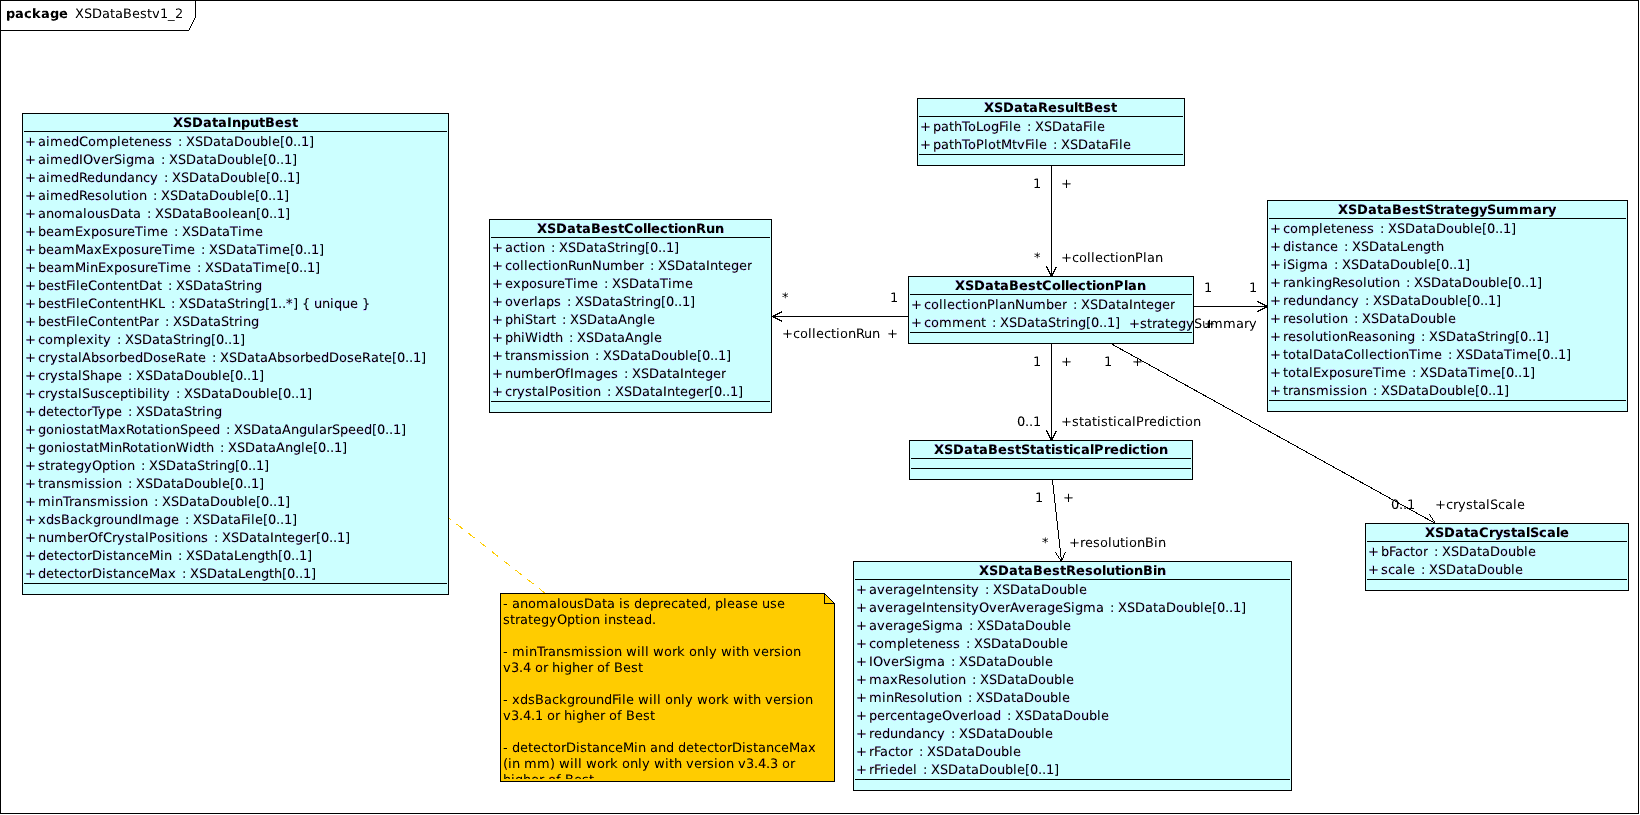
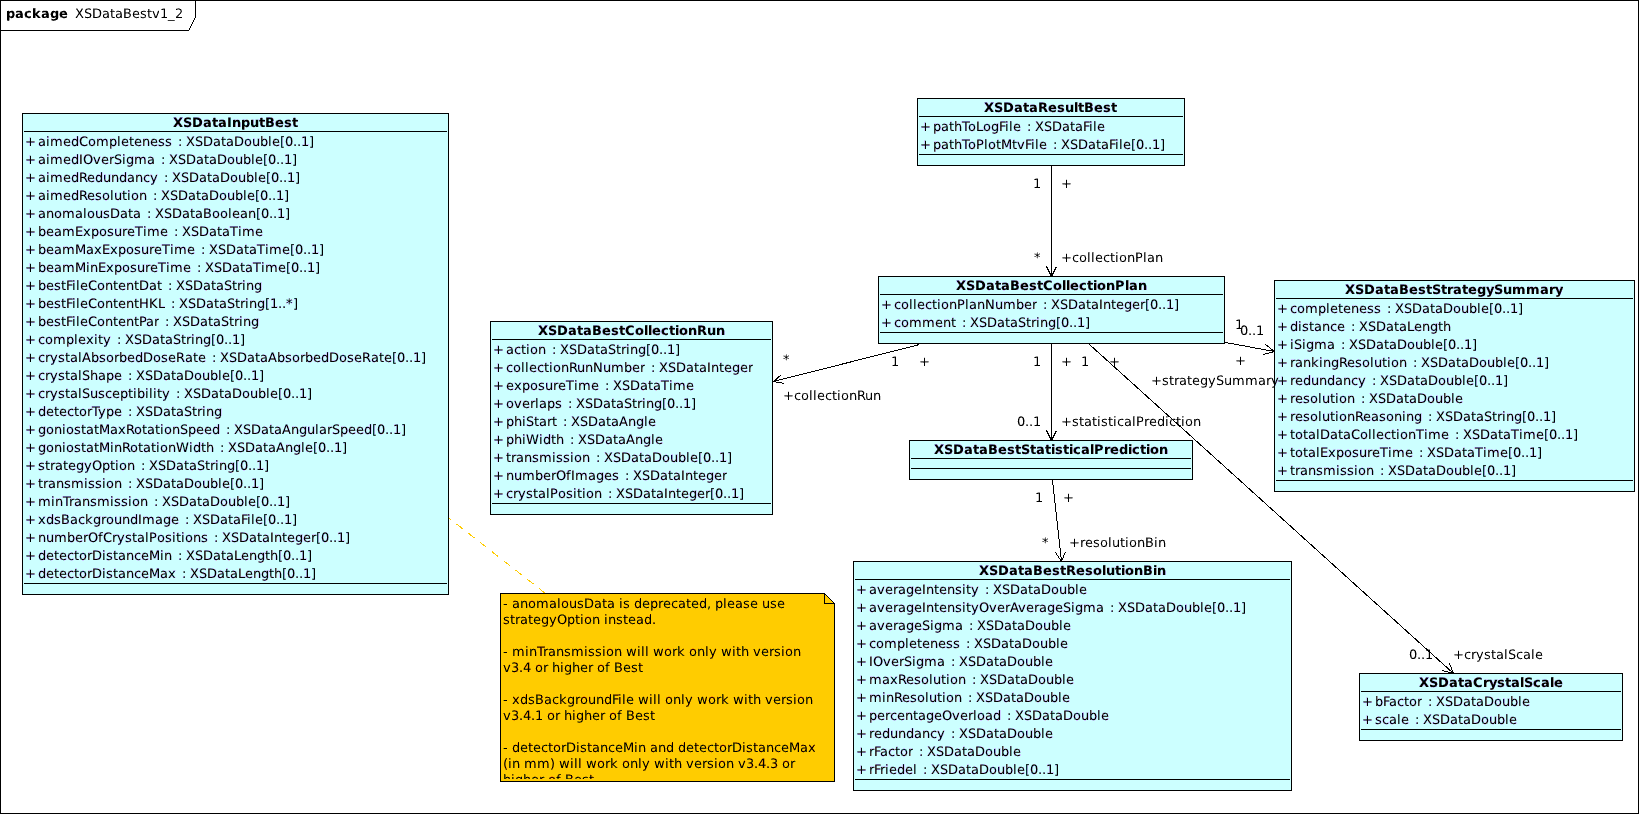
Replaced EDUtilsPath.mergePath with os.path.join, fixed issues with datamodel minOccurs for best v1.2

diff --git a/mxPluginExec/plugins/EDPluginBest-v1.2/tests/testsuite/EDTestCasePluginUnitBestv1_2.py b/mxPluginExec/plugins/EDPluginBest-v1.2/tests/testsuite/EDTestCasePluginUnitBestv1_2.py
@@ -31,6 +31,7 @@ __contact__ = "svensson@esrf.fr"
 __license__ = "LGPLv3+"
 __copyright__ = "European Synchrotron Radiation Facility, Grenoble, France"
 
+import os
 
 from EDVerbose                           import EDVerbose
 from EDUtilsPath                         import EDUtilsPath
@@ -48,15 +49,15 @@ class EDTestCasePluginUnitBestv1_2(EDTestCasePluginUnit):
         self.m_pyStrDataPath = self.getPluginTestsDataHome()
 
         self.m_edObtainedInputFile = "XSDataInputBest_test.xml"
-        self.m_edReferenceInputFile = EDUtilsPath.mergePath(self.m_pyStrDataPath, "XSDataInputBest_reference.xml")
-        self.m_edReferenceResultFile = EDUtilsPath.mergePath(self.m_pyStrDataPath, "XSDataResultBest_reference.xml")
+        self.m_edReferenceInputFile = os.path.join(self.m_pyStrDataPath, "XSDataInputBest_reference.xml")
+        self.m_edReferenceResultFile = os.path.join(self.m_pyStrDataPath, "XSDataResultBest_reference.xml")
 
-        self.m_edReferenceScriptLogFileName = EDUtilsPath.mergePath(self.m_pyStrDataPath, "EDPluginBestv1_2.log")
+        self.m_edReferenceScriptLogFileName = os.path.join(self.m_pyStrDataPath, "EDPluginBestv1_2.log")
 
 
     def testConfigureOK(self):
         edPluginBest = self.createPlugin()
-        pyStrConfigPath = EDUtilsPath.mergePath(self.m_pyStrDataPath, "XSConfiguration.xml")
+        pyStrConfigPath = os.path.join(self.m_pyStrDataPath, "XSConfiguration.xml")
         xsPluginItemGood01 = self.getPluginConfiguration(pyStrConfigPath)
         edPluginBest.setConfiguration(xsPluginItemGood01)
         edPluginBest.setScriptExecutable("cat")
@@ -73,7 +74,7 @@ class EDTestCasePluginUnitBestv1_2(EDTestCasePluginUnit):
 
     def testSetDataModelInput(self):
         edPluginBest = self.createPlugin()
-        xsPluginItemGood01 = self.getPluginConfiguration(EDUtilsPath.mergePath(self.m_pyStrDataPath, "XSConfiguration.xml"))
+        xsPluginItemGood01 = self.getPluginConfiguration(os.path.join(self.m_pyStrDataPath, "XSConfiguration.xml"))
         edPluginBest.setConfiguration(xsPluginItemGood01)
         edPluginBest.setScriptExecutable("cat")
         edPluginBest.configure()
@@ -108,13 +109,13 @@ class EDTestCasePluginUnitBestv1_2(EDTestCasePluginUnit):
         xsDataInputBest.setAnomalousData(XSDataBoolean(False))
         fileDirectory = edPluginBest.getWorkingDirectory()
 
-        bestFileContentDat = EDUtilsFile.readFile(EDUtilsPath.mergePath(self.m_pyStrDataPath, "bestfile.dat"))
+        bestFileContentDat = EDUtilsFile.readFile(os.path.join(self.m_pyStrDataPath, "bestfile.dat"))
         xsDataInputBest.setBestFileContentDat(XSDataString(bestFileContentDat))
 
-        bestFileContentPar = EDUtilsFile.readFile(EDUtilsPath.mergePath(self.m_pyStrDataPath, "bestfile.par"))
+        bestFileContentPar = EDUtilsFile.readFile(os.path.join(self.m_pyStrDataPath, "bestfile.par"))
         xsDataInputBest.setBestFileContentPar(XSDataString(bestFileContentPar))
 
-        bestFileContentHKL = EDUtilsFile.readFile(EDUtilsPath.mergePath(self.m_pyStrDataPath, "bestfile1.hkl"))
+        bestFileContentHKL = EDUtilsFile.readFile(os.path.join(self.m_pyStrDataPath, "bestfile1.hkl"))
         xsDataInputBest.addBestFileContentHKL(XSDataString(bestFileContentHKL))
 
         xsDataInputBest.exportToFile(self.m_edObtainedInputFile)

diff --git a/mxPluginExec/plugins/EDPluginBest-v1.2/plugins/EDPluginBestv1_2.py b/mxPluginExec/plugins/EDPluginBest-v1.2/plugins/EDPluginBestv1_2.py
@@ -194,8 +194,8 @@ class EDPluginBestv1_2(EDPluginExecProcessScript):
 
         self.setScriptLogFileName("best.log")
 
-        self.setFileBestDat(EDUtilsPath.mergePath(self.getWorkingDirectory(), "bestfile.dat"))
-        self.setFileBestPar(EDUtilsPath.mergePath(self.getWorkingDirectory(), "bestfile.par"))
+        self.setFileBestDat(os.path.join(self.getWorkingDirectory(), "bestfile.dat"))
+        self.setFileBestPar(os.path.join(self.getWorkingDirectory(), "bestfile.par"))
 
         EDUtilsFile.writeFile(self.getFileBestDat(), self.getDataInput().getBestFileContentDat().getValue())
         EDUtilsFile.writeFile(self.getFileBestPar(), self.getDataInput().getBestFileContentPar().getValue())
@@ -205,7 +205,7 @@ class EDPluginBestv1_2(EDPluginExecProcessScript):
         iterator = 0
         for bestFileContentHKL in listBestFileContentHKL:
             iterator = iterator + 1
-            bestFileHKL = EDUtilsPath.mergePath(self.getWorkingDirectory(), "bestfile" + str(iterator) + ".hkl")
+            bestFileHKL = os.path.join(self.getWorkingDirectory(), "bestfile" + str(iterator) + ".hkl")
             self.__listFileBestHKL.append(bestFileHKL)
             EDUtilsFile.writeFile(bestFileHKL, bestFileContentHKL.getValue())
 
@@ -308,7 +308,7 @@ class EDPluginBestv1_2(EDPluginExecProcessScript):
 
         self.__strCommandBest = self.__strCommandBest + "-T " + str(fMaxExposureTime) + " " + \
                                      "-dna " + self.getScriptBaseName() + "_dnaTables.xml" + " " + \
-                                     "-o " + EDUtilsPath.mergePath(self.getWorkingDirectory(), self.getScriptBaseName() + "_plots.mtv ") + \
+                                     "-o " + os.path.join(self.getWorkingDirectory(), self.getScriptBaseName() + "_plots.mtv ") + \
                                      "-e " + self.getComplexity() + " "
                                      
         if self.getDataInput().getXdsBackgroundImage():
@@ -331,7 +331,7 @@ class EDPluginBestv1_2(EDPluginExecProcessScript):
             self.setDataOutput(XSDataResultBest())
             self.setFailure()
         else:
-            xsDataResultBest = self.getOutputDataFromDNATableFile(EDUtilsPath.mergePath(self.getWorkingDirectory(), self.getScriptBaseName() + "_dnaTables.xml"))
+            xsDataResultBest = self.getOutputDataFromDNATableFile(os.path.join(self.getWorkingDirectory(), self.getScriptBaseName() + "_dnaTables.xml"))
             xsDataFilePathToLog = XSDataFile(XSDataString(os.path.join(self.getWorkingDirectory(), self.getScriptLogFileName())))
             xsDataResultBest.setPathToLogFile(xsDataFilePathToLog)
             xsDataFilePathToPlotMtv = XSDataFile(XSDataString(os.path.join(self.getWorkingDirectory(), self.getScriptBaseName() + "_plots.mtv")))

diff --git a/mxPluginExec/plugins/EDPluginBest-v1.2/tests/testsuite/EDTestCasePluginExecuteBestv1_2_withNumberOfCrystalPositions.py b/mxPluginExec/plugins/EDPluginBest-v1.2/tests/testsuite/EDTestCasePluginExecuteBestv1_2_withNumberOfCrystalPositions.py
@@ -31,6 +31,7 @@ __contact__ = "svensson@esrf.fr"
 __license__ = "LGPLv3+"
 __copyright__ = "European Synchrotron Radiation Facility, Grenoble, France"
 
+import os
 
 from EDVerbose                           import EDVerbose
 from EDAssert                            import EDAssert
@@ -46,11 +47,11 @@ class EDTestCasePluginExecuteBestv1_2_withNumberOfCrystalPositions(EDTestCasePlu
         EDTestCasePluginExecuteBestv1_2.__init__(self, "EDPluginBestv1_2")
 
         self.setConfigurationFile(self.getRefConfigFile())
-        self.setDataInputFile(EDUtilsPath.mergePath(self.getPluginTestsDataHome(), "XSDataInputBest_withNumberOfCrystalPositions.xml"))
+        self.setDataInputFile(os.path.join(self.getPluginTestsDataHome(), "XSDataInputBest_withNumberOfCrystalPositions.xml"))
         if (self.m_bRunOnIntel):
-            self.setReferenceDataOutputFile(EDUtilsPath.mergePath(self.getPluginTestsDataHome(), "XSDataResultBest_withNumberOfCrystalPositionsForIntel.xml"))
+            self.setReferenceDataOutputFile(os.path.join(self.getPluginTestsDataHome(), "XSDataResultBest_withNumberOfCrystalPositionsForIntel.xml"))
         else:
-            self.setReferenceDataOutputFile(EDUtilsPath.mergePath(self.getPluginTestsDataHome(), "XSDataResultBest_withNumberOfCrystalPositions.xml"))
+            self.setReferenceDataOutputFile(os.path.join(self.getPluginTestsDataHome(), "XSDataResultBest_withNumberOfCrystalPositions.xml"))
 
     def process(self):
         self.addTestMethod(self.testExecute)

diff --git a/mxPluginExec/plugins/EDPluginBest-v1.2/tests/testsuite/EDTestCasePluginExecuteBestv1_2_withXdsBackgroundImage.py b/mxPluginExec/plugins/EDPluginBest-v1.2/tests/testsuite/EDTestCasePluginExecuteBestv1_2_withXdsBackgroundImage.py
@@ -31,6 +31,7 @@ __contact__ = "svensson@esrf.fr"
 __license__ = "LGPLv3+"
 __copyright__ = "European Synchrotron Radiation Facility, Grenoble, France"
 
+import os
 
 from EDVerbose                           import EDVerbose
 from EDAssert                            import EDAssert
@@ -46,11 +47,11 @@ class EDTestCasePluginExecuteBestv1_2_withXdsBackgroundImage(EDTestCasePluginExe
         EDTestCasePluginExecuteBestv1_2.__init__(self, "EDPluginBestv1_2")
 
         self.setConfigurationFile(self.getRefConfigFile())
-        self.setDataInputFile(EDUtilsPath.mergePath(self.getPluginTestsDataHome(), "XSDataInputBest_withXdsBackgroundImage.xml"))
+        self.setDataInputFile(os.path.join(self.getPluginTestsDataHome(), "XSDataInputBest_withXdsBackgroundImage.xml"))
         if (self.m_bRunOnIntel):
-            self.setReferenceDataOutputFile(EDUtilsPath.mergePath(self.getPluginTestsDataHome(), "XSDataResultBest_withXdsBackgroundImageForIntel.xml"))
+            self.setReferenceDataOutputFile(os.path.join(self.getPluginTestsDataHome(), "XSDataResultBest_withXdsBackgroundImageForIntel.xml"))
         else:
-            self.setReferenceDataOutputFile(EDUtilsPath.mergePath(self.getPluginTestsDataHome(), "XSDataResultBest_withXdsBackgroundImage.xml"))
+            self.setReferenceDataOutputFile(os.path.join(self.getPluginTestsDataHome(), "XSDataResultBest_withXdsBackgroundImage.xml"))
 
     def preProcess(self):
         EDTestCasePluginExecuteBestv1_2.preProcess(self)

diff --git a/mxPluginExec/plugins/EDPluginBest-v1.2/plugins/XSDataBestv1_2.py b/mxPluginExec/plugins/EDPluginBest-v1.2/plugins/XSDataBestv1_2.py
@@ -1,7 +1,7 @@
 #!/usr/bin/env python
 
 #
-# Generated Wed Apr 25 08:54::27 2012 by EDGenerateDS.
+# Generated Wed Apr 25 10:17::26 2012 by EDGenerateDS.
 #
 
 import os, sys
@@ -1101,8 +1101,6 @@ class XSDataBestCollectionPlan(object):
 		pass
 		if self._collectionPlanNumber is not None:
 			self.collectionPlanNumber.export(outfile, level, name_='collectionPlanNumber')
-		else:
-			warnEmptyAttribute("collectionPlanNumber", "XSDataInteger")
 		for collectionRun_ in self.getCollectionRun():
 			collectionRun_.export(outfile, level, name_='collectionRun')
 		if self._comment is not None:
@@ -1113,8 +1111,6 @@ class XSDataBestCollectionPlan(object):
 			self.statisticalPrediction.export(outfile, level, name_='statisticalPrediction')
 		if self._strategySummary is not None:
 			self.strategySummary.export(outfile, level, name_='strategySummary')
-		else:
-			warnEmptyAttribute("strategySummary", "XSDataBestStrategySummary")
 	def build(self, node_):
 		for child_ in node_.childNodes:
 			nodeName_ = child_.nodeName.split(':')[-1]
@@ -1739,8 +1735,6 @@ class XSDataResultBest(XSDataResult):
 			warnEmptyAttribute("pathToLogFile", "XSDataFile")
 		if self._pathToPlotMtvFile is not None:
 			self.pathToPlotMtvFile.export(outfile, level, name_='pathToPlotMtvFile')
-		else:
-			warnEmptyAttribute("pathToPlotMtvFile", "XSDataFile")
 	def build(self, node_):
 		for child_ in node_.childNodes:
 			nodeName_ = child_.nodeName.split(':')[-1]

diff --git a/mxPluginExec/plugins/EDPluginBest-v1.2/tests/testsuite/EDTestCasePluginExecuteBestv1_2_withDetectorDistanceMax.py b/mxPluginExec/plugins/EDPluginBest-v1.2/tests/testsuite/EDTestCasePluginExecuteBestv1_2_withDetectorDistanceMax.py
@@ -31,6 +31,7 @@ __contact__ = "svensson@esrf.fr"
 __license__ = "LGPLv3+"
 __copyright__ = "European Synchrotron Radiation Facility, Grenoble, France"
 
+import os
 
 from EDVerbose                           import EDVerbose
 from EDAssert                            import EDAssert
@@ -46,11 +47,11 @@ class EDTestCasePluginExecuteBestv1_2_withDetectorDistanceMax(EDTestCasePluginEx
         EDTestCasePluginExecuteBestv1_2.__init__(self, "EDPluginBestv1_2")
 
         self.setConfigurationFile(self.getRefConfigFile())
-        self.setDataInputFile(EDUtilsPath.mergePath(self.getPluginTestsDataHome(), "XSDataInputBest_withDetectorDistanceMax.xml"))
+        self.setDataInputFile(os.path.join(self.getPluginTestsDataHome(), "XSDataInputBest_withDetectorDistanceMax.xml"))
         if (self.m_bRunOnIntel):
-            self.setReferenceDataOutputFile(EDUtilsPath.mergePath(self.getPluginTestsDataHome(), "XSDataResultBest_withDetectorDistanceMaxForIntel.xml"))
+            self.setReferenceDataOutputFile(os.path.join(self.getPluginTestsDataHome(), "XSDataResultBest_withDetectorDistanceMaxForIntel.xml"))
         else:
-            self.setReferenceDataOutputFile(EDUtilsPath.mergePath(self.getPluginTestsDataHome(), "XSDataResultBest_withDetectorDistanceMax.xml"))
+            self.setReferenceDataOutputFile(os.path.join(self.getPluginTestsDataHome(), "XSDataResultBest_withDetectorDistanceMax.xml"))
 
 
     def testExecute(self):

diff --git a/mxPluginExec/plugins/EDPluginBest-v1.2/tests/testsuite/EDTestCasePluginExecuteBestv1_2_withDetectorDistanceMin.py b/mxPluginExec/plugins/EDPluginBest-v1.2/tests/testsuite/EDTestCasePluginExecuteBestv1_2_withDetectorDistanceMin.py
@@ -31,6 +31,7 @@ __contact__ = "svensson@esrf.fr"
 __license__ = "LGPLv3+"
 __copyright__ = "European Synchrotron Radiation Facility, Grenoble, France"
 
+import os
 
 from EDVerbose                           import EDVerbose
 from EDAssert                            import EDAssert
@@ -46,11 +47,11 @@ class EDTestCasePluginExecuteBestv1_2_withDetectorDistanceMin(EDTestCasePluginEx
         EDTestCasePluginExecuteBestv1_2.__init__(self, "EDPluginBestv1_2")
 
         self.setConfigurationFile(self.getRefConfigFile())
-        self.setDataInputFile(EDUtilsPath.mergePath(self.getPluginTestsDataHome(), "XSDataInputBest_withDetectorDistanceMin.xml"))
+        self.setDataInputFile(os.path.join(self.getPluginTestsDataHome(), "XSDataInputBest_withDetectorDistanceMin.xml"))
         if (self.m_bRunOnIntel):
-            self.setReferenceDataOutputFile(EDUtilsPath.mergePath(self.getPluginTestsDataHome(), "XSDataResultBest_withDetectorDistanceMinForIntel.xml"))
+            self.setReferenceDataOutputFile(os.path.join(self.getPluginTestsDataHome(), "XSDataResultBest_withDetectorDistanceMinForIntel.xml"))
         else:
-            self.setReferenceDataOutputFile(EDUtilsPath.mergePath(self.getPluginTestsDataHome(), "XSDataResultBest_withDetectorDistanceMin.xml"))
+            self.setReferenceDataOutputFile(os.path.join(self.getPluginTestsDataHome(), "XSDataResultBest_withDetectorDistanceMin.xml"))
 
 
     def process(self):

diff --git a/mxPluginExec/plugins/EDPluginBest-v1.2/tests/testsuite/EDTestCasePluginExecuteBestv1_2_withMinTransmissionInput.py b/mxPluginExec/plugins/EDPluginBest-v1.2/tests/testsuite/EDTestCasePluginExecuteBestv1_2_withMinTransmissionInput.py
@@ -30,6 +30,7 @@ __contact__ = "svensson@esrf.fr"
 __license__ = "LGPLv3+"
 __copyright__ = "European Synchrotron Radiation Facility, Grenoble, France"
 
+import os
 
 from EDVerbose                           import EDVerbose
 from EDAssert                            import EDAssert
@@ -45,11 +46,11 @@ class EDTestCasePluginExecuteBestv1_2_withMinTransmissionInput(EDTestCasePluginE
         EDTestCasePluginExecuteBestv1_2.__init__(self, "EDPluginBestv1_2")
 
         self.setConfigurationFile(self.getRefConfigFile())
-        self.setDataInputFile(EDUtilsPath.mergePath(self.getPluginTestsDataHome(), "XSDataInputBest_withMinTransmissionInput.xml"))
+        self.setDataInputFile(os.path.join(self.getPluginTestsDataHome(), "XSDataInputBest_withMinTransmissionInput.xml"))
         if (self.m_bRunOnIntel):
-            self.setReferenceDataOutputFile(EDUtilsPath.mergePath(self.getPluginTestsDataHome(), "XSDataResultBest_withTransmissionInputForIntel.xml"))
+            self.setReferenceDataOutputFile(os.path.join(self.getPluginTestsDataHome(), "XSDataResultBest_withTransmissionInputForIntel.xml"))
         else:
-            self.setReferenceDataOutputFile(EDUtilsPath.mergePath(self.getPluginTestsDataHome(), "XSDataResultBest_withTransmissionInput.xml"))
+            self.setReferenceDataOutputFile(os.path.join(self.getPluginTestsDataHome(), "XSDataResultBest_withTransmissionInput.xml"))
 
 
     def process(self):

diff --git a/mxPluginExec/plugins/EDPluginBest-v1.2/tests/testsuite/EDTestCasePluginExecuteBestv1_2_withTransmissionInput.py b/mxPluginExec/plugins/EDPluginBest-v1.2/tests/testsuite/EDTestCasePluginExecuteBestv1_2_withTransmissionInput.py
@@ -31,6 +31,7 @@ __contact__ = "svensson@esrf.fr"
 __license__ = "LGPLv3+"
 __copyright__ = "European Synchrotron Radiation Facility, Grenoble, France"
 
+import os
 
 from EDVerbose                           import EDVerbose
 from EDAssert                            import EDAssert
@@ -46,11 +47,11 @@ class EDTestCasePluginExecuteBestv1_2_withTransmissionInput(EDTestCasePluginExec
         EDTestCasePluginExecuteBestv1_2.__init__(self, "EDPluginBestv1_2")
 
         self.setConfigurationFile(self.getRefConfigFile())
-        self.setDataInputFile(EDUtilsPath.mergePath(self.getPluginTestsDataHome(), "XSDataInputBest_withTransmissionInput.xml"))
+        self.setDataInputFile(os.path.join(self.getPluginTestsDataHome(), "XSDataInputBest_withTransmissionInput.xml"))
         if (self.m_bRunOnIntel):
-            self.setReferenceDataOutputFile(EDUtilsPath.mergePath(self.getPluginTestsDataHome(), "XSDataResultBest_withTransmissionInputForIntel.xml"))
+            self.setReferenceDataOutputFile(os.path.join(self.getPluginTestsDataHome(), "XSDataResultBest_withTransmissionInputForIntel.xml"))
         else:
-            self.setReferenceDataOutputFile(EDUtilsPath.mergePath(self.getPluginTestsDataHome(), "XSDataResultBest_withTransmissionInput.xml"))
+            self.setReferenceDataOutputFile(os.path.join(self.getPluginTestsDataHome(), "XSDataResultBest_withTransmissionInput.xml"))
 
 
     def process(self):

diff --git a/mxPluginExec/plugins/EDPluginBest-v1.2/tests/testsuite/EDTestCasePluginExecuteBestv1_2_withAnomalousData.py b/mxPluginExec/plugins/EDPluginBest-v1.2/tests/testsuite/EDTestCasePluginExecuteBestv1_2_withAnomalousData.py
@@ -31,6 +31,7 @@ __contact__ = "svensson@esrf.fr"
 __license__ = "LGPLv3+"
 __copyright__ = "European Synchrotron Radiation Facility, Grenoble, France"
 
+import os
 
 from EDVerbose                           import EDVerbose
 from EDAssert                            import EDAssert
@@ -46,11 +47,11 @@ class EDTestCasePluginExecuteBestv1_2_withAnomalousData(EDTestCasePluginExecuteB
         EDTestCasePluginExecuteBestv1_2.__init__(self, "EDPluginBestv1_2")
 
         self.setConfigurationFile(self.getRefConfigFile())
-        self.setDataInputFile(EDUtilsPath.mergePath(self.getPluginTestsDataHome(), "XSDataInputBest_withAnomalousData.xml"))
+        self.setDataInputFile(os.path.join(self.getPluginTestsDataHome(), "XSDataInputBest_withAnomalousData.xml"))
         if (self.m_bRunOnIntel):
-            self.setReferenceDataOutputFile(EDUtilsPath.mergePath(self.getPluginTestsDataHome(), "XSDataResultBest_withAnomalousDataForIntel.xml"))
+            self.setReferenceDataOutputFile(os.path.join(self.getPluginTestsDataHome(), "XSDataResultBest_withAnomalousDataForIntel.xml"))
         else:
-            self.setReferenceDataOutputFile(EDUtilsPath.mergePath(self.getPluginTestsDataHome(), "XSDataResultBest_withAnomalousData.xml"))
+            self.setReferenceDataOutputFile(os.path.join(self.getPluginTestsDataHome(), "XSDataResultBest_withAnomalousData.xml"))
 
 
     def process(self):

diff --git a/mxPluginExec/plugins/EDPluginBest-v1.2/tests/testsuite/EDTestCasePluginExecuteBestv1_2.py b/mxPluginExec/plugins/EDPluginBest-v1.2/tests/testsuite/EDTestCasePluginExecuteBestv1_2.py
@@ -47,7 +47,7 @@ class EDTestCasePluginExecuteBestv1_2(EDTestCasePluginExecute):
     def __init__(self, _oalStringTestName=None):
         EDTestCasePluginExecute.__init__(self, "EDPluginBestv1_2")
         self.setConfigurationFile(self.getRefConfigFile())
-        self.setDataInputFile(EDUtilsPath.mergePath(self.getPluginTestsDataHome(), "XSDataInputBest_reference.xml"))
+        self.setDataInputFile(os.path.join(self.getPluginTestsDataHome(), "XSDataInputBest_reference.xml"))
         #
         # If on Linux, check if run on Intel processor
         #
@@ -62,9 +62,9 @@ class EDTestCasePluginExecuteBestv1_2(EDTestCasePluginExecute):
                     if (pyStrLine.find("GenuineIntel") != -1):
                          self.m_bRunOnIntel = True
         if (self.m_bRunOnIntel):
-            self.setReferenceDataOutputFile(EDUtilsPath.mergePath(self.getPluginTestsDataHome(), "XSDataResultBest_referenceForIntel.xml"))
+            self.setReferenceDataOutputFile(os.path.join(self.getPluginTestsDataHome(), "XSDataResultBest_referenceForIntel.xml"))
         else:
-            self.setReferenceDataOutputFile(EDUtilsPath.mergePath(self.getPluginTestsDataHome(), "XSDataResultBest_reference.xml"))
+            self.setReferenceDataOutputFile(os.path.join(self.getPluginTestsDataHome(), "XSDataResultBest_reference.xml"))
 
 
     def testExecute(self):

diff --git a/mxPluginExec/plugins/EDPluginGroupISPyB-v1.2/tests/testsuite/EDTestCasePluginUnitISPyBv1_2.py b/mxPluginExec/plugins/EDPluginGroupISPyB-v1.2/tests/testsuite/EDTestCasePluginUnitISPyBv1_2.py
@@ -193,12 +193,12 @@ class EDTestCasePluginUnitISPyBv1_2(EDTestCasePluginUnit):
         xsDataISPyBScreeningFile.setDescription(XSDataString("Output log file"))
 
         # Write XSDataISPyB objects to files
-        xsDataISPyBScreening.exportToFile(self.__strObtainedScreening)
-        xsDataISPyBScreeningInput.exportToFile(self.__strObtainedScreeningInput)
-        xsDataISPyBScreeningOutputContainer.exportToFile(self.__strObtainedScreeningOutputContainer)
-        xsDataISPyBScreeningRank.exportToFile(self.__strObtainedScreeningRank)
-        xsDataISPyBScreeningRankSet.exportToFile(self.__strObtainedScreeningRankSet)
-        xsDataISPyBScreeningFile.exportToFile(self.__strObtainedScreeningFile)
+        xsDataISPyBScreening.outputFile(self.__strObtainedScreening)
+        xsDataISPyBScreeningInput.outputFile(self.__strObtainedScreeningInput)
+        xsDataISPyBScreeningOutputContainer.outputFile(self.__strObtainedScreeningOutputContainer)
+        xsDataISPyBScreeningRank.outputFile(self.__strObtainedScreeningRank)
+        xsDataISPyBScreeningRankSet.outputFile(self.__strObtainedScreeningRankSet)
+        xsDataISPyBScreeningFile.outputFile(self.__strObtainedScreeningFile)
 
         # Compare screening
         strInputScreeningExpected = self.readAndParseFile(self.__strReferenceInputScreening)
